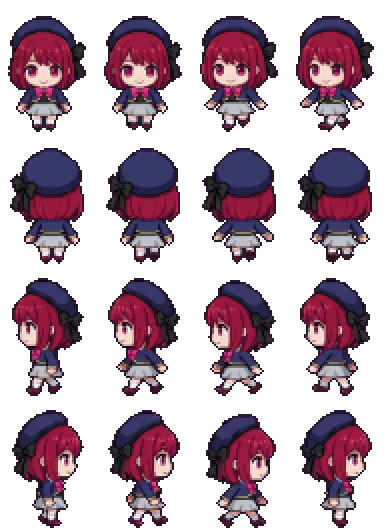
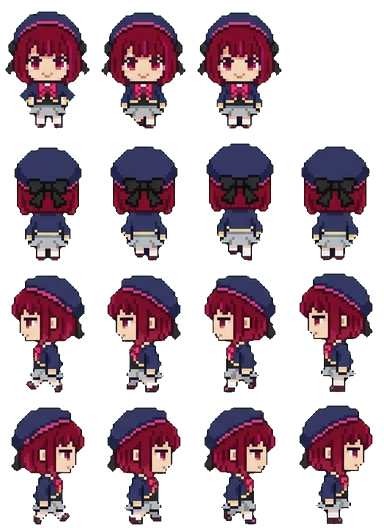
Redraw Arima Kana in the shared art style
Claude-Session: https://claude.ai/code/session_01KaPsBYLrtbRfMYNG2xeBCK

diff --git a/docs/app.js b/docs/app.js
@@ -75,7 +75,7 @@ function spr(cat, k, col, sc) {
   return `<div class="clip" style="width:${it[2] * sc}px;height:${it[3] * sc}px;POS"><img class="px" src="assets/decor/${cat}.png" alt="" style="width:${S.sw * sc}px;height:${S.sh * sc}px;margin-left:${-col * S.cw * sc}px;margin-top:${-i * S.ch * sc}px"></div>`;
 }
 const icon = (k, sz) => `<span class="itm" style="width:${sz}px;height:${sz}px"><img class="px" src="assets/ui/items.png" alt="" style="width:${IT.length * sz}px;height:${sz}px;margin-left:${-ITM[k].i * sz}px"></span>`;
-const face = (id, w) => { const s = w / 96; return `<img class="px" src="assets/ch/${id}.webp?v=57" alt="" style="position:absolute;width:${384 * s}px;height:${528 * s}px;left:${-(96 * s - w) / 2}px;top:0;max-width:none">`; };
+const face = (id, w) => { const s = w / 96; return `<img class="px" src="assets/ch/${id}.webp?v=58" alt="" style="position:absolute;width:${384 * s}px;height:${528 * s}px;left:${-(96 * s - w) / 2}px;top:0;max-width:none">`; };
 
 // ---------- 저장 ----------
 let fb = null, user = null, S = null, saveT = null;
@@ -143,7 +143,7 @@ function sleepHTML(id, r, dy) {
   const pos = r.a && r.a[0] === 'bed' ? 'left:3%;bottom:20%' : r.b && r.b[0] === 'bed' ? 'right:3%;bottom:20%' : 'left:calc(50% - 44px);bottom:6%';
   const s = 36 / 96;
   return `<div style="position:absolute;width:88px;height:56px;${pos};z-index:${dy ? 4 : 5};${dy ? `transform:translate(12px,${dy}px)` : ''}"><div style="position:absolute;inset:0;filter:brightness(.22)">
-    <div style="position:absolute;left:11px;top:1px;width:36px;height:50px;overflow:hidden;transform:rotate(-90deg)"><img class="px" src="assets/ch/${id}.webp?v=57" alt="" style="width:${384 * s}px;height:${528 * s}px;max-width:none;margin-top:${-132 * s}px"></div>
+    <div style="position:absolute;left:11px;top:1px;width:36px;height:50px;overflow:hidden;transform:rotate(-90deg)"><img class="px" src="assets/ch/${id}.webp?v=58" alt="" style="width:${384 * s}px;height:${528 * s}px;max-width:none;margin-top:${-132 * s}px"></div>
     <div style="position:absolute;left:19px;top:19px;width:67px;height:29px;border:2px solid var(--ink);border-radius:8px 6px 4px 4px;background:#8ccff5;background-image:repeating-linear-gradient(90deg,transparent 0 10px,rgba(255,255,255,.5) 10px 13px)"></div></div>
     ${dy ? '' : '<span class="emo" style="left:8px;top:-22px;color:#5b6bd6">Z z z</span>'}</div>`;
 }
@@ -153,8 +153,8 @@ function roomHTML(id, o, scale) {
     <div class="floor" style="background-color:${PAL[r.fc][1]};background-image:${tileUrl('floor', r.fl)}"></div>
     ${slot('deco', r.dc, 'left:6%;top:6%')}${slot('furn', r.a, 'left:3%;bottom:20%')}${slot('furn', r.b, 'right:3%;bottom:20%')}${slot('prop', r.pr, 'left:28%;bottom:4%;z-index:2')}
     ${id && o.sleeping && g ? sleepHTML(g, r, -16) : ''}${id && o.sleeping ? sleepHTML(id, r) : ''}${id && o.job ? `<div style="position:absolute;left:50%;top:38%;transform:translateX(-50%);z-index:5;background:#fff;border:3px solid var(--ink);border-radius:10px;padding:6px 10px;font-size:11px;text-align:center;line-height:1.5"><img src="assets/ui/ic_job.png" alt="" style="width:18px;vertical-align:-4px"> ${WORK[id] ? WORK[id][1] : esc(JOB_NAME[id]) + ' 알바 중'}${g ? `<br><small>${esc(nameOf(g))}도 같이</small>` : ''}<br><b id="jobleft">${timeLeft(o.job.until)}</b></div>` : ''}
-    ${id ? `<div class="shadow" id="shd" ${o.sleeping || o.job ? 'style="display:none"' : ''}></div><div class="man" id="man" ${o.sleeping || o.job ? 'style="display:none"' : ''}><img class="px" src="assets/ch/${id}.webp?v=57" alt="${esc(nameOf(id))}"></div><span class="emo" id="emo" hidden></span><span class="mumble" id="mum" hidden></span>` : ''}
-    ${g ? `<div class="shadow" id="gshd" ${hideG}></div><div class="man" id="gman" ${hideG}><img class="px" src="assets/ch/${g}.webp?v=57" alt="${esc(nameOf(g))}"></div><span class="emo" id="gemo" hidden></span><span class="mumble gmum" id="gmum" hidden></span>` : ''}
+    ${id ? `<div class="shadow" id="shd" ${o.sleeping || o.job ? 'style="display:none"' : ''}></div><div class="man" id="man" ${o.sleeping || o.job ? 'style="display:none"' : ''}><img class="px" src="assets/ch/${id}.webp?v=58" alt="${esc(nameOf(id))}"></div><span class="emo" id="emo" hidden></span><span class="mumble" id="mum" hidden></span>` : ''}
+    ${g ? `<div class="shadow" id="gshd" ${hideG}></div><div class="man" id="gman" ${hideG}><img class="px" src="assets/ch/${g}.webp?v=58" alt="${esc(nameOf(g))}"></div><span class="emo" id="gemo" hidden></span><span class="mumble gmum" id="gmum" hidden></span>` : ''}
     ${o.sleeping ? `<div class="night"></div><div class="sleepleft">쿨쿨 · 일어나기까지 <b id="sleepleft">${timeLeft(wakeAt(o)).replace(' 남음', '')}</b></div>` : ''}
   </div>`;
 }
@@ -167,7 +167,7 @@ function meterHTML(o) {
 const ic = (act, img, label, pressed) => `<button class="ic" data-act="${act}" ${pressed ? 'aria-pressed="true"' : ''}><img src="assets/ui/ic_${img}.png?v=2" alt="">${label}</button>`;
 
 let dropStyle = null; const cheat = {};
-const APP_V = 129, COUPONS = { NINOGUYA: 3000 };
+const APP_V = 130, COUPONS = { NINOGUYA: 3000 };
 // 쿠폰 입력 정리: 한글 자판 상태로 친 글자(ㅜㅑㅜㅐ혀ㅛㅁ)도 영어 자판 글자로 바꾸고, 대소문자·띄어쓰기·마침표는 무시해요
 const KEY = { ㄱ: 'r', ㄲ: 'R', ㄴ: 's', ㄷ: 'e', ㄸ: 'E', ㄹ: 'f', ㅁ: 'a', ㅂ: 'q', ㅃ: 'Q', ㅅ: 't', ㅆ: 'T', ㅇ: 'd', ㅈ: 'w', ㅉ: 'W', ㅊ: 'c', ㅋ: 'z', ㅌ: 'x', ㅍ: 'v', ㅎ: 'g',
   ㅏ: 'k', ㅐ: 'o', ㅑ: 'i', ㅒ: 'O', ㅓ: 'j', ㅔ: 'p', ㅕ: 'u', ㅖ: 'P', ㅗ: 'h', ㅘ: 'hk', ㅙ: 'ho', ㅚ: 'hl', ㅛ: 'y', ㅜ: 'n', ㅝ: 'nj', ㅞ: 'np', ㅟ: 'nl', ㅠ: 'b', ㅡ: 'm', ㅢ: 'ml', ㅣ: 'l',
@@ -407,7 +407,7 @@ function startTrip(k) {
   if (tg) lines[1] = `${nameOf(tg)}: ${withHim(sub(pick(GLX(tg).trip), o, c.n), tg)}`;
   const n = (FR[id] || [4, 4, 4, 4])[3], el = document.createElement('div'); el.className = 'tripview';
   el.innerHTML = `<div class="tsay"> </div><div class="tstage" style="background-image:url(assets/travel/${k}.png?v=2)"><div class="tplace">${esc(c.n)}</div>
-    <div class="twalker"><img class="px" src="assets/ch/${id}.webp?v=57" alt=""></div>${tg ? `<div class="twalker tgirl"><img class="px" src="assets/ch/${tg}.webp?v=57" alt=""></div>` : ''}<span class="emo tjoy">♪</span></div>
+    <div class="twalker"><img class="px" src="assets/ch/${id}.webp?v=58" alt=""></div>${tg ? `<div class="twalker tgirl"><img class="px" src="assets/ch/${tg}.webp?v=58" alt=""></div>` : ''}<span class="emo tjoy">♪</span></div>
     <div class="tbar"><i></i></div><button class="btn white tskip" data-tskip="1">바로 돌아오기</button>`;
   document.body.appendChild(el);
   const gimg = el.querySelector('.tgirl img'), gn = tg ? (FR[tg] || [4, 4, 4, 4])[3] : 1;
@@ -636,7 +636,7 @@ setInterval(() => { if (S && user) { tickTime(); save(); } }, 60000);
     if (nv > APP_V && !location.search.includes('u=' + nv)) { location.replace(location.pathname + '?u=' + nv); return; }
   } catch { }
   app.innerHTML = '<div class="start"><div class="egg"><div class="scr"></div></div><div class="note">불러오는 중....</div></div>';
-  const [c, t, f, it, mu, ct, tv, gl, sts] = await Promise.all(['data/chars.json', 'data/talk.json', 'data/frames.json', 'data/items.json', 'data/mumble.json', 'data/countries.json', 'data/travel.json', 'data/girls.json', 'data/sets.json'].map(u => fetch(u + '?v=129').then(r => r.ok ? r.json() : {})));
+  const [c, t, f, it, mu, ct, tv, gl, sts] = await Promise.all(['data/chars.json', 'data/talk.json', 'data/frames.json', 'data/items.json', 'data/mumble.json', 'data/countries.json', 'data/travel.json', 'data/girls.json', 'data/sets.json'].map(u => fetch(u + '?v=130').then(r => r.ok ? r.json() : {})));
   CH = c; CHM = Object.fromEntries(c.map(x => [x.id, x])); TALK = t; FR = f; IT = it; ITM = Object.fromEntries(it.map(x => [x.k, x])); MUM = mu; CTRY = ct; TRV = tv; GL = Array.isArray(gl) ? gl : []; SETS = Array.isArray(sts) ? sts : []; GLM = Object.fromEntries(GL.map(x => [x.id, x]));
   try { await initFirebase(); } catch (e) { console.warn('Firebase 연결 실패, 기기 저장으로', e); fb = null; }
   if (fb) {

diff --git a/docs/index.html b/docs/index.html
@@ -18,6 +18,6 @@
 <main id="app" aria-live="polite"></main>
 <div id="toast" role="status" hidden></div>
 <script src="firebase-config.js?v=3"></script>
-<script type="module" src="app.js?v=129"></script>
+<script type="module" src="app.js?v=130"></script>
 </body>
 </html>
